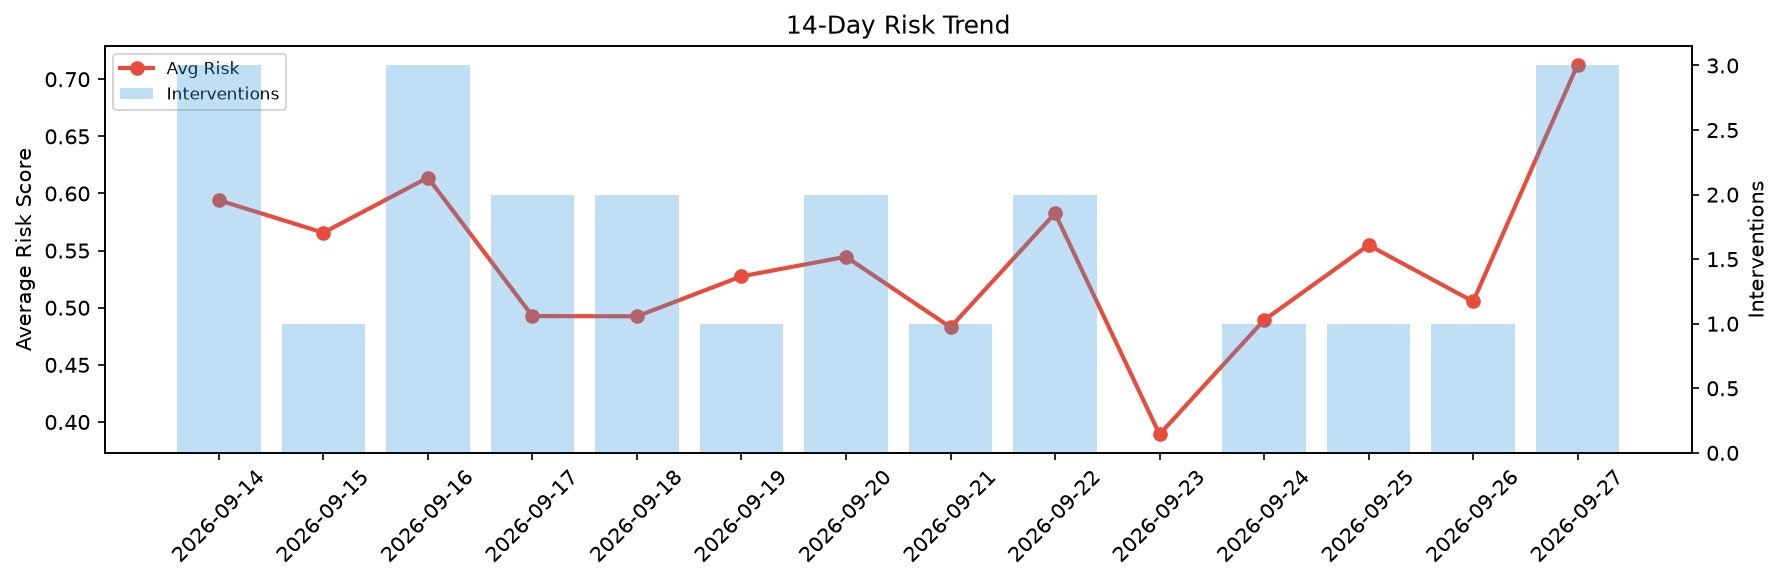
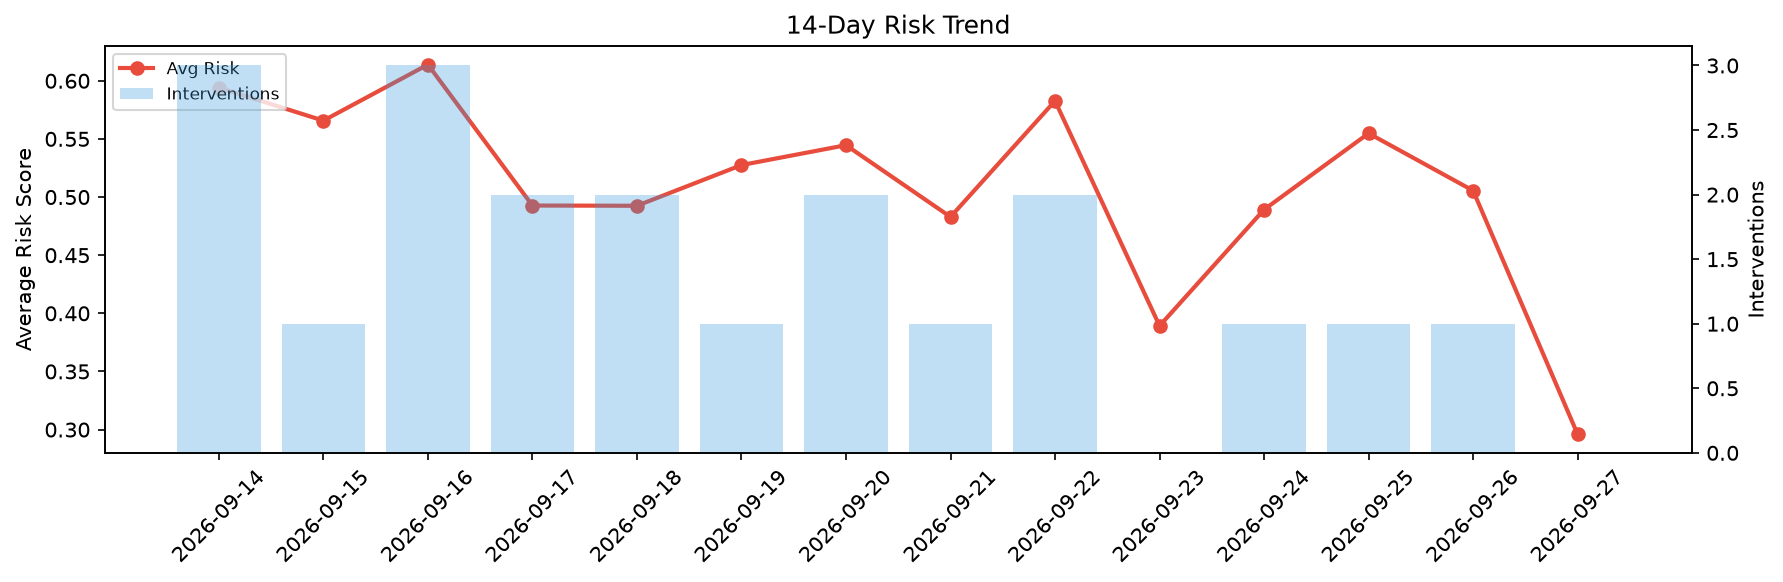
agent-improvement: daily cycle 2026-09-27T18:25

diff --git a/logs/2026-09-27.md b/logs/2026-09-27.md
@@ -1,6 +1,6 @@
 # Agent Improvement Report — 2026-09-27
 
-**Cycle ID:** `18aea538` | **Avg Risk:** 0.7128 | **Interventions:** 3/4
+**Cycle ID:** `9ce89029` | **Avg Risk:** 0.2959 | **Interventions:** 0/4
 
 ![Dashboard](2026-09-27_dashboard.png)
 
@@ -10,18 +10,18 @@
 
 | Domain | Risk Score | Decision | Alerts |
 |--------|-----------|----------|--------|
-| code_review | 0.7555 | intervene | complexity, duplication |
-| incident_response | 0.7419 | intervene | severity, mttr |
-| data_pipeline | 0.7954 | intervene | freshness, schema_drift |
-| deployment | 0.5585 | monitor | canary_error |
+| code_review | 0.2892 | monitor | none |
+| incident_response | 0.339 | monitor | none |
+| data_pipeline | 0.1438 | monitor | none |
+| deployment | 0.4116 | monitor | none |
 
 ## Delta vs Yesterday
 
 | Domain | Today | Yesterday | Change |
 |--------|-------|-----------|--------|
-| code_review | 0.7555 | 0.421 | 📈 79.5% |
-| incident_response | 0.7419 | 0.4666 | 📈 59.0% |
-| data_pipeline | 0.7954 | 0.7272 | 📈 9.4% |
-| deployment | 0.5585 | 0.4073 | 📈 37.1% |
+| code_review | 0.2892 | 0.421 | 📉 -31.3% |
+| incident_response | 0.339 | 0.4666 | 📉 -27.3% |
+| data_pipeline | 0.1438 | 0.7272 | 📉 -80.2% |
+| deployment | 0.4116 | 0.4073 | 📈 1.1% |
 
-**Refinement:** `{'adjustment': 'maintain', 'trend': 'improving', 'window': 4}`
+**Refinement:** `{'adjustment': 'tighten_thresholds', 'trend': 'degrading', 'window': 4}`
